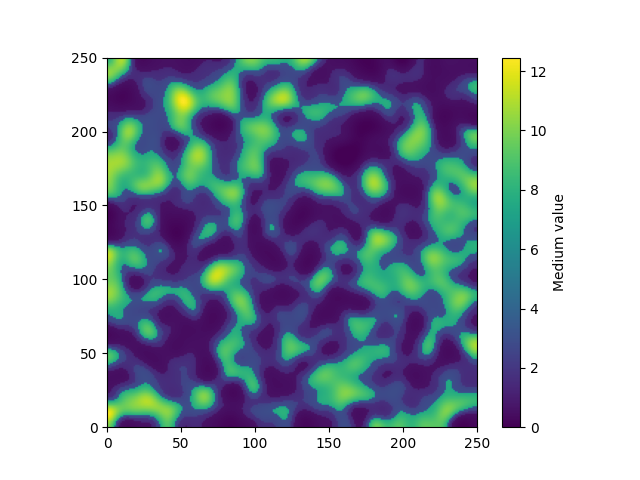
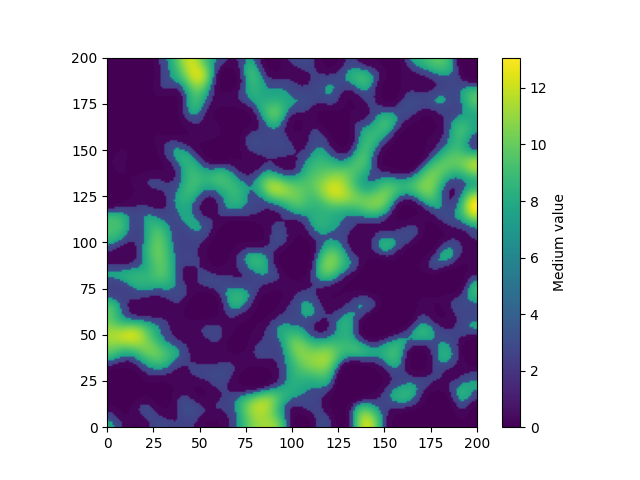
axis corrected

diff --git a/testing/2d_wave_2.py b/testing/2d_wave_2.py
@@ -1,44 +1,48 @@
-import numpy as np
 import matplotlib.pyplot as plt
 import matplotlib.animation as animation
 from scipy.ndimage import gaussian_filter 
 from numba import njit
+import numpy as np
 
-def generate_medium(nx, ny, min_val=-25, max_val=30, sigma=12):
+def generate_medium(nx, ny, min_val=-25, max_val=30, sigma=6):
     random_field = np.random.rand(nx, ny) * (max_val - min_val) + min_val
     smooth_field = gaussian_filter(random_field, sigma=sigma)
 
     # Apply a nonlinear scaling to increase low values and create a few spikes
     smooth_field = np.where(smooth_field < 0.0, smooth_field * 0, smooth_field)
-    smooth_field = np.where( np.logical_and(smooth_field < 2, smooth_field >0), smooth_field * 0.3, smooth_field)
-    smooth_field = np.where( np.logical_and(smooth_field < 2.5, smooth_field >2), smooth_field * 0.7, smooth_field) 
-    smooth_field = np.where(smooth_field > 3, smooth_field * 2.5, smooth_field)
+    smooth_field = np.where( np.logical_and(smooth_field < 2, smooth_field >0), smooth_field * 0.01, smooth_field)
+    smooth_field = np.where( np.logical_and(smooth_field < 2.5, smooth_field >2), smooth_field * 0.1, smooth_field) 
+    smooth_field = np.where(smooth_field > 2, smooth_field * 2.5, smooth_field)
+    #smooth_field = np.where(smooth_field > 0, smooth_field * 0.5, smooth_field)
     return smooth_field
 
 
 # Define the simulation parameters
-nx, ny = 10, 10  # Increase the spatial resolution
+nx, ny = 200, 200  # Increase the spatial resolution
 domain_size_x, domain_size_y = 200, 200
 dx, dy = domain_size_x / nx, domain_size_y / ny 
 
-smooth_field = generate_medium(nx, ny)
+#smooth_field = generate_medium(nx, ny)
+smooth_field = generate_medium(ny, nx)  # Swap nx and ny
+
 max_medium_value = np.max(smooth_field)
 
-c = 11  # Constant propagation speed (modify this based on your medium)
+c = 0.5  # Constant propagation speed (modify this based on your medium)
 print(dx, dy,  min(dx, dy) / (c * max_medium_value) * 0.5)
 dt = min(dx, dy) / (c * max_medium_value) * 0.5
  
-timesteps = 500 
+timesteps = 500
+ 
 
-# Visualize the medium
-fig, ax = plt.subplots()
-cax = ax.imshow(smooth_field, cmap='viridis', extent=[0, nx, 0, ny]) 
-plt.colorbar(cax, label="Medium value")
-plt.savefig('medium.png')
-
+# @njit
+# def medium(x, y):
+#     i, j = int(x), int(y)
+#     i = min(i, smooth_field.shape[0] - 1) 
+#     j = min(j, smooth_field.shape[1] - 1) 
+#     return smooth_field[i, j]
 @njit
 def medium(x, y):
-    i, j = int(x), int(y)
+    j, i = int(x), int(y)  # Swap i and j
     i = min(i, smooth_field.shape[0] - 1) 
     j = min(j, smooth_field.shape[1] - 1) 
     return smooth_field[i, j]
@@ -51,27 +55,29 @@ def medium_2d(X, Y):
         for j in range(ny):
             result[i, j] = medium(X[i, j], Y[i, j])
     return result
- 
 
-def wave(x, y, px, py, amp, sigma):
+ 
+def wave(x, y, amp, sigma, px=50, py=50):
     return np.exp(-((x - px)**2 + (y - py)**2) / (sigma**2)) * amp
 
 
+
+def generate_wave_speed_field(medium, c):
+    wave_speed_field = c * medium
+    return wave_speed_field
+
+wave_speed_field = generate_wave_speed_field(smooth_field, c)
+ 
 # Create the x, y coordinates
 x = np.arange(0, nx * dx, dx)
 y = np.arange(0, ny * dy, dy)
-X, Y = np.meshgrid(x, y) 
- 
+X, Y = np.meshgrid(x, y)  
 
 # Initialize the wave field
-A =2
+A = 3
 u = np.zeros((nx, ny, A), dtype=np.float64, order='C')
- 
-sigma= 156
-u[:, :, 0] = wave(X, Y, 
-                  px=44,#int(domain_size_x/2), 
-                  py=33,#int(domain_size_y/2), 
-                  amp=A, sigma=sigma)    
+u[:, :, 0] = wave(X, Y, amp=A, sigma=1)  # Adjust the 'sigma' value as needed
+
 wave_field_data = np.zeros((timesteps, nx, ny))
 
 @njit
@@ -99,7 +105,8 @@ wave_field_data = simulation(timesteps, u)
 
 def visualize_wave_propagation(wave_field_data):
     fig, ax = plt.subplots() 
-    cax = ax.imshow(wave_field_data[0], vmin=-1, vmax=1, cmap='viridis', extent=[0, nx * dx, 0, ny * dy])
+    #cax = ax.imshow(wave_field_data[0], vmin=-1, vmax=1, cmap='viridis', extent=[0, nx * dx, 0, ny * dy])
+    cax = ax.imshow(wave_field_data[0], vmin=-1, vmax=1, cmap='viridis', extent=[0, nx * dx, 0, ny * dy], origin='lower')
 
     def update(frame):
         cax.set_data(wave_field_data[frame])
@@ -112,5 +119,17 @@ def visualize_wave_propagation(wave_field_data):
  
 
 print(time.time() - t0)
+
+fig, axs = plt.subplots(1, 2, figsize=(10, 4))
+axs[0].imshow(smooth_field, cmap='viridis', extent=[0, nx, 0, ny], origin='lower')
+axs[0].set_title("Medium field")
+plt.colorbar(axs[0].imshow(smooth_field, cmap='viridis', extent=[0, nx, 0, ny], origin='lower'), ax=axs[0], label="Medium value")
+
+axs[1].imshow(wave_speed_field, cmap='viridis', extent=[0, nx, 0, ny], origin='lower')
+axs[1].set_title("Wave speed field")
+plt.colorbar(axs[1].imshow(wave_speed_field, cmap='viridis', extent=[0, nx, 0, ny], origin='lower'), ax=axs[1], label="Wave speed")
+
+plt.tight_layout()
+plt.show()
+
 visualize_wave_propagation(wave_field_data)
- 
